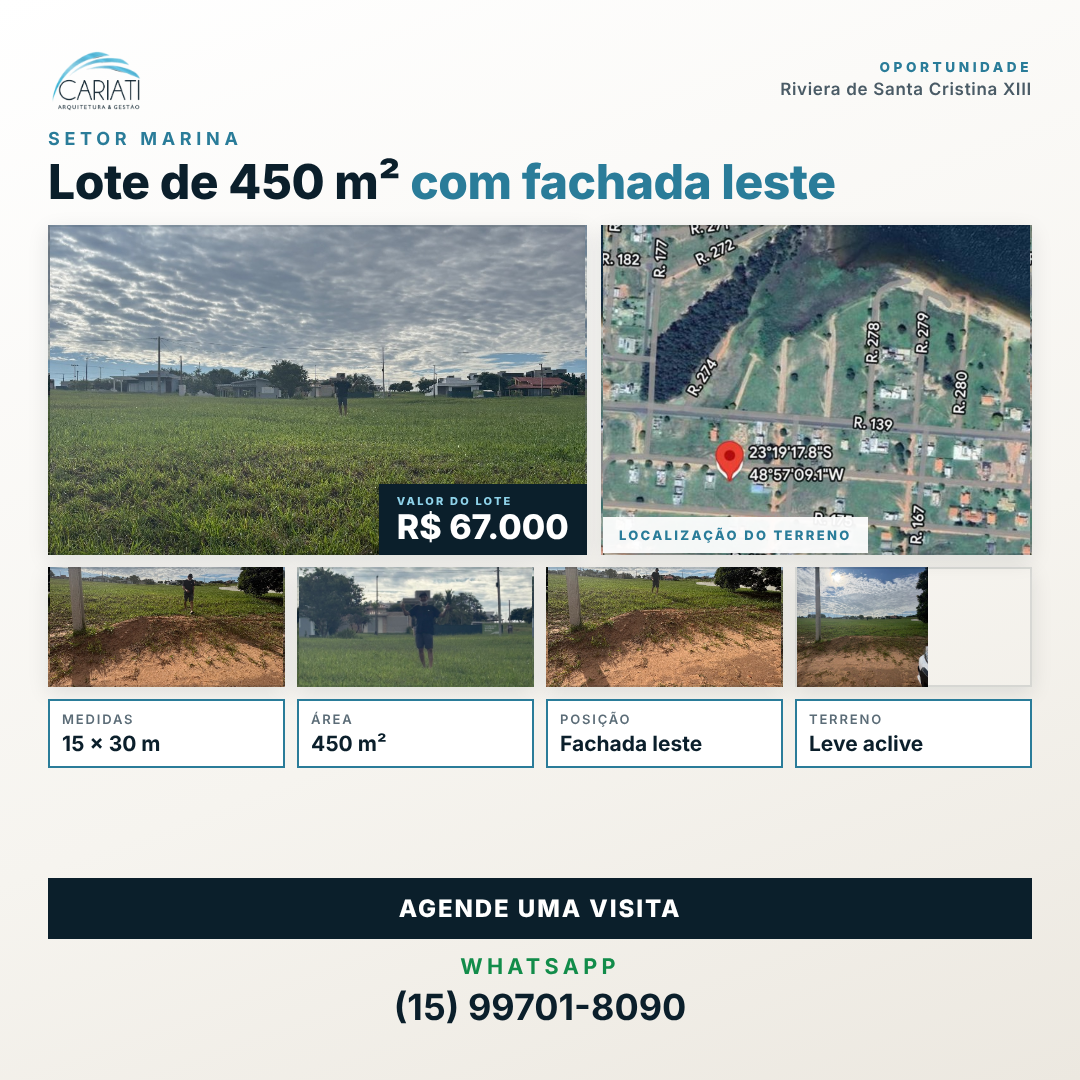
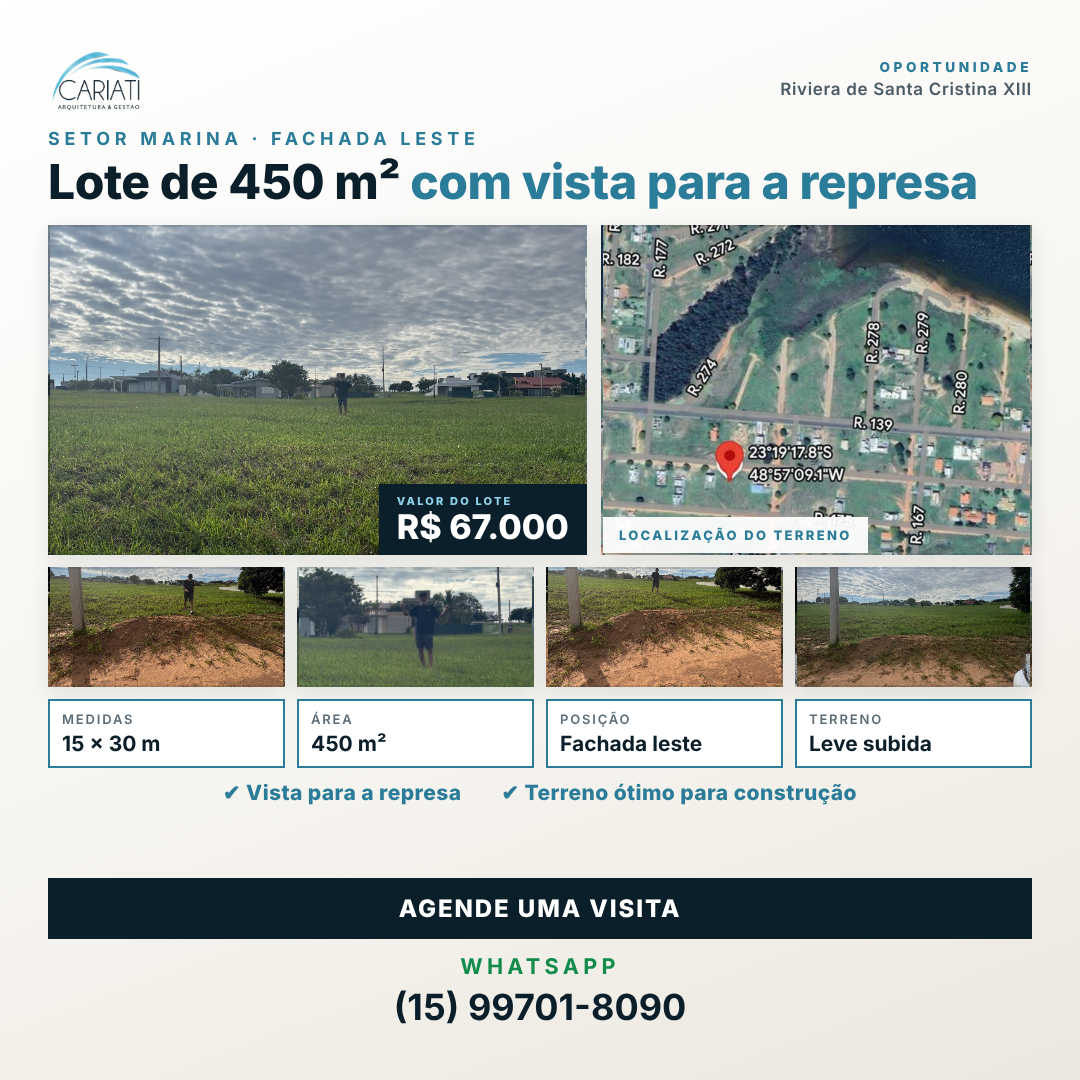
Lot ad: add lake view, 'leve subida', great-for-building highlights
Claude-Session: https://claude.ai/code/session_012W4cPJrLBDcgKi33Cw4yCm

diff --git a/lote_riviera/build.py b/lote_riviera/build.py
@@ -32,7 +32,7 @@ h1 em{font-style:normal;color:#5fc1e3}
 .ph small{display:block;font-weight:500;color:#9fb4bf;font-size:.5em;letter-spacing:.05em;margin-top:4px}
 """
 def chips(cols=4):
-    c=[("Medidas","15 × 30 m"),("Área","450 m²"),("Posição","Fachada leste"),("Terreno","Leve aclive")]
+    c=[("Medidas","15 × 30 m"),("Área","450 m²"),("Posição","Fachada leste"),("Terreno","Leve subida")]
     return f'<div class="chips z" style="grid-template-columns:repeat({cols},1fr)">'+''.join(f'<div class=chip><span>{a}</span>{b}</div>' for a,b in c)+'</div>'
 PH='<div class="ph z"><span class=wa>WhatsApp</span>(15) 99701-8090</div>'
 def sp(n): return f"<div style='height:{n}px;flex:none'></div>"
@@ -41,6 +41,8 @@ def img(f,h,pos="center",extra="",inner="",w=""):
 def tag(t): return f"<div class=tg>{t}</div>"
 BADGE='<div class=pb><small>VALOR DO LOTE</small><b>R$ 67.000</b></div>'
 LCSS="""
+.hl{display:flex;justify-content:center;gap:40px;font-weight:800;color:#2a7c99;font-size:var(--hlf);letter-spacing:.02em}
+
 .f{background:linear-gradient(160deg,#ffffff 0%,#f6f4ef 60%,#ece8e0 100%);color:#0b1f2b}
 .eb{color:#2a7c99}h1 em{color:#2a7c99}
 .hr{color:#4a5b66}.hr span{color:#2a7c99}
@@ -51,25 +53,26 @@ LCSS="""
 .cta{background:#0b1f2b;color:#fff}
 .ph .wa{color:#128c4a}.ph{color:#0b1f2b}
 """
+HL='<div class="hl z"><span>✔ Vista para a represa</span><span>✔ Terreno ótimo para construção</span></div>'
 def th(f,h,pos): return img(f,h,pos,'flex:1')
 def build(w,h,v,vert):
     vs=";".join(f"--{k}:{x}" for k,x in v.items())
     top='<div class="hd z"><img class="logo" src="../assets/logo_escuro.png"><div class=hr><span>OPORTUNIDADE</span>Riviera de Santa Cristina XIII</div></div>'
-    title='<div class="eb z">Setor Marina</div>'+sp(8)+'<h1 class=z>Lote de 450&nbsp;m² <em>com fachada leste</em></h1>'
-    ths=lambda hh:f"<div class='z' style='display:flex;gap:12px;flex:none'>{th('foto3.jpg',hh,'center 60%')}{th('foto4.jpg',hh,'center 50%')}{th('foto2.jpg',hh,'center 62%')}{img('foto5.jpg',hh,'left 58%','flex:1;background-size:auto 150%;background-repeat:no-repeat')}</div>"
+    title='<div class="eb z">Setor Marina · Fachada leste</div>'+sp(8)+'<h1 class=z>Lote de 450&nbsp;m² <em>com vista para a represa</em></h1>'
+    ths=lambda hh:f"<div class='z' style='display:flex;gap:12px;flex:none'>{th('foto3.jpg',hh,'center 60%')}{th('foto4.jpg',hh,'center 50%')}{th('foto2.jpg',hh,'center 62%')}{img('foto5.jpg',hh,'left 58%','flex:1')}</div>"
     if vert:
         body=(top+sp(26)+title+sp(26)
           +f"<div class=z style='position:relative;flex:none'>{img('foto1.jpg',480,'center 42%')}{BADGE}</div>"
           +sp(12)+ths(235)+sp(12)
           +f"<div class='z mp'>{img('mapa.jpg',330,'center 78%','','<div class=mt>LOCALIZAÇÃO DO TERRENO</div>')}</div>"
-          +sp(16)+chips(4)+"<div style='flex:1'></div>"+sp(10)+'<div class="cta z">Agende uma visita</div>'+sp(16)+PH)
+          +sp(16)+chips(4)+sp(18)+HL+"<div style='flex:1'></div>"+sp(10)+'<div class="cta z">Agende uma visita</div>'+sp(16)+PH)
     else:
         body=(top+sp(16)+title+sp(18)
           +f"<div class='z' style='display:flex;gap:14px;flex:none'><div style='flex:1.25;position:relative'>{img('foto1.jpg',330,'center 42%')}{BADGE}</div><div style='flex:1;position:relative'>{img('mapa.jpg',330,'center 80%','','<div class=mt>LOCALIZAÇÃO DO TERRENO</div>')}</div></div>"
-          +sp(12)+ths(120)+sp(12)+chips(4)+"<div style='flex:1'></div>"+sp(8)+'<div class="cta z">Agende uma visita</div>'+sp(12)+PH)
+          +sp(12)+ths(120)+sp(12)+chips(4)+sp(12)+HL+"<div style='flex:1'></div>"+sp(8)+'<div class="cta z">Agende uma visita</div>'+sp(12)+PH)
     return f"<html><head><meta charset=utf-8><style>{CSS}{LCSS}</style></head><body><div class=f style='--w:{w}px;--h:{h}px;{vs}'>{body}</div></body></html>"
-V=dict(hrf="22px",mtf="17px",pbp="18px 28px",pbs="14px",pbf="54px",p="64px",ph="1000px",pp="center 40%",lh="96px",e="24px",h1="70px",pr="120px",g="18px",cp="16px 18px",cf="27px",c="32px",cb="26px",t="50px")
-S=dict(hrf="17px",mtf="13px",pbp="10px 18px",pbs="11px",pbf="34px",p="48px",ph="470px",pp="center 40%",lh="64px",e="18px",h1="48px",pr="84px",g="12px",cp="10px 12px",cf="21px",c="24px",cb="16px",t="36px")
+V=dict(hlf="26px",hrf="22px",mtf="17px",pbp="18px 28px",pbs="14px",pbf="54px",p="64px",ph="1000px",pp="center 40%",lh="96px",e="24px",h1="66px",pr="120px",g="18px",cp="16px 18px",cf="27px",c="32px",cb="26px",t="50px")
+S=dict(hlf="21px",hrf="17px",mtf="13px",pbp="10px 18px",pbs="11px",pbf="34px",p="48px",ph="470px",pp="center 40%",lh="64px",e="18px",h1="48px",pr="84px",g="12px",cp="10px 12px",cf="21px",c="24px",cb="16px",t="36px")
 (root/"html").mkdir(exist_ok=True); import json; jobs=[]
 for tag,(w,h,v,vert) in {"vertical_1080x1920":(1080,1920,V,True),"quadrado_1080x1080":(1080,1080,S,False)}.items():
     f=f"anuncio_lote_{tag}"; (root/"html"/f"{f}.html").write_text(build(w,h,v,vert)); jobs.append(dict(f=f,w=w,h=h))
